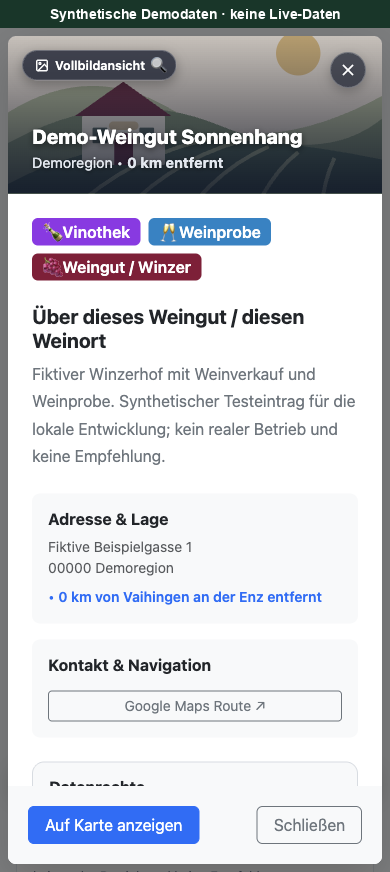
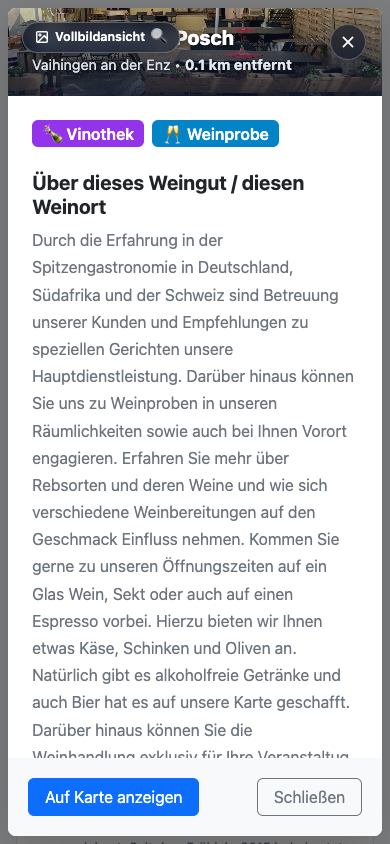
docs: neue Store-Screenshots mit echten DZT-Daten, je 3 Desktop und 3 Mobile (1.0.11)
Aufgenommen auf der Dev-Instanz (Laufzeit 1.0.7, 1440x1000 bzw. 390x844, Ladepruefung vor jeder Aufnahme). Bisheriger Demodaten-Satz nach docs/screenshots/archive/2026-10-13/ verschoben; SCREENSHOTS.md und README beschreiben den neuen Satz (kein Einzel-Bildnachweis fuer die DZT-Fotos). Kein App-Code geaendert.

diff --git a/assets/SCREENSHOTS.md b/assets/SCREENSHOTS.md
@@ -1,19 +1,17 @@
-# Store-Screenshots – 2026-10-12
+# Store-Screenshots – 2026-10-13
 
-Sechs aktuelle Bilder der App-Version **1.0.7**, jeweils Übersicht, Katalog und Detailansicht. Aufgenommen mit der unveränderten App-Laufzeit in Google Chrome über DevTools/CDP und lokalen Live Server; Schriften, sichtbare Bilder und Kartenkacheln waren geladen und endliche Oberflächenanimationen vollständig abgewartet. Keine Live-Abnahme und keine realen Betriebsempfehlungen.
+Sechs Bilder der App-Laufzeit **1.0.7**, jeweils Übersicht, Katalog und Detailansicht. Aufgenommen am 13.10.2026 auf der ODAS-Dev-Instanz mit **echten Daten aus dem DZT Knowledge Graph** (über den ODAS-Relay `/dzt`, Umkreis 5 km um Vaihingen an der Enz, 7 Weinorte). Vor jeder Aufnahme wurde geprüft, dass alle Daten, Bilder und Kartenkacheln vollständig geladen waren. Die Änderungen bis 1.0.11 betreffen Fehleranzeige und Dokumentation, nicht die gezeigten Ansichten.
 
 | Motiv | Desktop | Mobile |
 |---|---|---|
-| Übersicht / Karte bzw. Ergebnisliste | [Desktop_Screenshot.png](Desktop_Screenshot.png) | [Mobile_Screenshot.png](Mobile_Screenshot.png) |
-| Katalog | [Desktop_Screenshot_2.png](Desktop_Screenshot_2.png) | [Mobile_Screenshot_2.png](Mobile_Screenshot_2.png) |
+| Übersicht / Karte und Ergebnisliste | [Desktop_Screenshot.png](Desktop_Screenshot.png) | [Mobile_Screenshot.png](Mobile_Screenshot.png) |
+| Fotokatalog | [Desktop_Screenshot_2.png](Desktop_Screenshot_2.png) | [Mobile_Screenshot_2.png](Mobile_Screenshot_2.png) |
 | Detailansicht | [Desktop_Screenshot_3.png](Desktop_Screenshot_3.png) | [Mobile_Screenshot_3.png](Mobile_Screenshot_3.png) |
 
-- Browserfläche: Desktop **1440 × 1000**, Mobile **390 × 844** Pixel, ohne zusätzliche Instanz-Brandingdatei.
-- PNG-Größe: Desktop **1440 × 1028**, Mobile **390 × 872** Pixel. Der zusätzliche 28-Pixel-Rand kennzeichnet **„Synthetische Demodaten · keine Live-Daten“** außerhalb der App; er verdeckt weder Kopfzeilen noch Bedienelemente und ist kein Bestandteil der App-Oberfläche.
-- Daten / Bildmaterial: `assets/demo-weingueter.json` mit zwölf fiktiven Weinorten und eigener Illustration `assets/demo-weingueter.svg`; siehe `DEMO-DATA.md`.
-- Oberfläche und eigene Testillustration: eigener App-Code bzw. eigene Grafik, MIT, © 2026 Ondics GmbH. Keine fremden Betriebsfotos übernommen.
-- In synthetischen Testdatensätzen dargestellte Namen, Angaben und Rechtsnachweise sind Beispieldaten, keine Rechtsauskunft zu realen DZT-Datensätzen oder Fotografien.
-- Soweit sichtbar: Kartenmaterial von OpenStreetMap; © [OpenStreetMap-Mitwirkende](https://www.openstreetmap.org/copyright). Die Software-MIT-Lizenz hebt Rechte und Bedingungen des Kartenmaterials nicht auf.
+- Browserfläche und PNG-Größe: Desktop **1440 × 1000**, Mobile **390 × 844** Pixel (DPR 1), ohne Demodaten-Hinweisstreifen.
+- Daten und Fotos: Die sichtbaren Betriebsnamen, Beschreibungen und Fotos stammen aus der DZT-Antwort und unterliegen den Rechten der jeweiligen Rechteinhaber. Für die einzelnen Fotos wurde **kein Bildnachweis** erstellt; vor einer Weitergabe der Screenshots außerhalb des App Stores sind die Bildrechte gesondert zu prüfen.
+- Oberfläche: eigener App-Code, MIT, © 2026 Ondics GmbH. Die Software-MIT-Lizenz gilt nicht für die gezeigten Daten und Fotos.
+- Kartenmaterial: © [OpenStreetMap-Mitwirkende](https://www.openstreetmap.org/copyright).
 - Gebündelte Bibliotheken/Fonts behalten ihre unter `app/vendor/THIRD-PARTY.md` dokumentierten Rechte.
 
-Vorherige Screenshotstände wurden außerhalb des App-Repositories gesichert. Das Ersetzen von Bildern bereinigt nicht automatisch deren Git-Historie.
+Der vorherige Satz (12.10.2026, synthetische Demodaten aus `demo-weingueter.json`, siehe `DEMO-DATA.md`) liegt unverändert unter `docs/screenshots/archive/2026-10-13/`. Das Ersetzen von Bildern bereinigt nicht automatisch deren Git-Historie.

diff --git a/README.md b/README.md
@@ -131,14 +131,14 @@ Die App verwendet kein Tracking und fragt keinen GPS-Standort ab. Browser-Sitzun
 
 ## Screenshots
 
-Die sechs Store-Bilder zeigen die Oberfläche mit **gekennzeichneten synthetischen Demodaten**; sie sind kein Live-Abnahmenachweis.
+Die sechs Store-Bilder zeigen die App-Laufzeit 1.0.7 auf der ODAS-Dev-Instanz mit **echten Daten aus dem DZT Knowledge Graph** (13.10.2026); sie sind kein Live-Abnahmenachweis. Für die sichtbaren Fotos liegt kein Einzel-Bildnachweis vor.
 
 | Ansicht | Übersicht | Katalog | Detail |
 |---|---|---|---|
 | Desktop | ![Desktop – Übersicht](assets/Desktop_Screenshot.png) | ![Desktop – Katalog](assets/Desktop_Screenshot_2.png) | ![Desktop – Detail](assets/Desktop_Screenshot_3.png) |
 | Mobile | ![Mobile – Übersicht](assets/Mobile_Screenshot.png) | ![Mobile – Katalog](assets/Mobile_Screenshot_2.png) | ![Mobile – Detail](assets/Mobile_Screenshot_3.png) |
 
-[Bildnachweise](assets/SCREENSHOTS.md).
+[Aufnahme- und Rechtehinweise](assets/SCREENSHOTS.md).
 
 Historischer [Prüfnachweis zum Runtime-Stand 1.0.3](tests/evidence/release-readiness-2026-10-08.md), erstellt vor den späteren Paketupdates und kein Beleg für die aktuellen Screenshots. Version 1.0.4 korrigierte ausschließlich die optionale Branding-CSS-Vorbelegung für den ODAS-Editor; Version 1.0.5 aktualisiert ausschließlich Screenshots und Metadaten.
 
@@ -157,7 +157,7 @@ Historischer [Prüfnachweis zum Runtime-Stand 1.0.3](tests/evidence/release-read
 
 App-Version **1.0.9** (präzisere Fehlertipps; zuvor 1.0.8: Portfolio-Standardfehleranzeige, Freigabe unterbrochener Ladungen; 1.0.7: Burgunderrot für Burger-/Menü-/Sekundärnavigation und mindestens 44px große Menübuttons; native Menüanimation/reduzierte Bewegung erhalten), ODAS-Paketformat **2**, Config-API **1**, Dienst `tourismus-odg`.
 
-Die geplanten Mobile-/Navigationskorrekturen sind abgeschlossen. Die sechs Storebilder zeigen den Runtime-Stand 1.0.7 mit eigenen synthetischen Daten (1.0.8 und 1.0.9 ändern nur Fehler- und Ladepfade, nicht die Ansicht); siehe [Bildnachweise](assets/SCREENSHOTS.md). Technischer Lieferabschluss und Dev-Prüfung sind von einer ausdrücklichen Produktiv-/Veröffentlichungsfreigabe zu unterscheiden.
+Die geplanten Mobile-/Navigationskorrekturen sind abgeschlossen. Die sechs Storebilder zeigen den Runtime-Stand 1.0.7 mit echten DZT-Daten von der Dev-Instanz (1.0.8 und 1.0.9 ändern nur Fehler- und Ladepfade, nicht die Ansicht); siehe [Aufnahme- und Rechtehinweise](assets/SCREENSHOTS.md). Technischer Lieferabschluss und Dev-Prüfung sind von einer ausdrücklichen Produktiv-/Veröffentlichungsfreigabe zu unterscheiden.
 
 Vorgesehener Repositorypfad: [open-data-apps/oda-weingueter](https://github.com/open-data-apps/oda-weingueter). Erstellen/Pushen des öffentlichen Repositories ist ein eigener Veröffentlichungsschritt. Historische Dev-Portal-Tests ersetzen keine Prüfung einer später geänderten Version.
 

diff --git a/CHANGELOG.md b/CHANGELOG.md
@@ -4,6 +4,9 @@ Alle wichtigen Änderungen an dieser Open Data App werden in dieser Datei dokume
 
 Das Format basiert auf [Keep a Changelog](https://keepachangelog.com/de/1.0.0/) und diese App folgt [Semantic Versioning](https://semver.org/lang/de/).
 
+## 1.0.11 - 2026-10-15
+- DOCS: Neue Store-Screenshots: je drei Desktop- (1440 × 1000) und Mobile-Aufnahmen (390 × 844) der aktuellen App, aufgenommen auf der Dev-Instanz. Ersetzt den bisherigen Satz mit synthetischen Demodaten durch Aufnahmen mit echten DZT-Daten; bisherige Bilder nach `docs/screenshots/archive/2026-10-13/` verschoben, `assets/SCREENSHOTS.md` und README angepasst. Keine Änderung an App-Code oder Konfiguration.
+
 ## 1.0.10 - 2026-10-14
 - DOCS: Datenschutzerklärung (Paket und lokale Config) mit verbindlichem Bibliotheken-Baustein und einheitlicher Liste der kontaktierten Drittanbieter (Kartenkacheln, Bildanbieter, Nominatim) versehen; README-Liste angeglichen; Markdown-Reste `**…**` in der lokalen Config behoben. Keine Änderung an der App-Logik.
 
